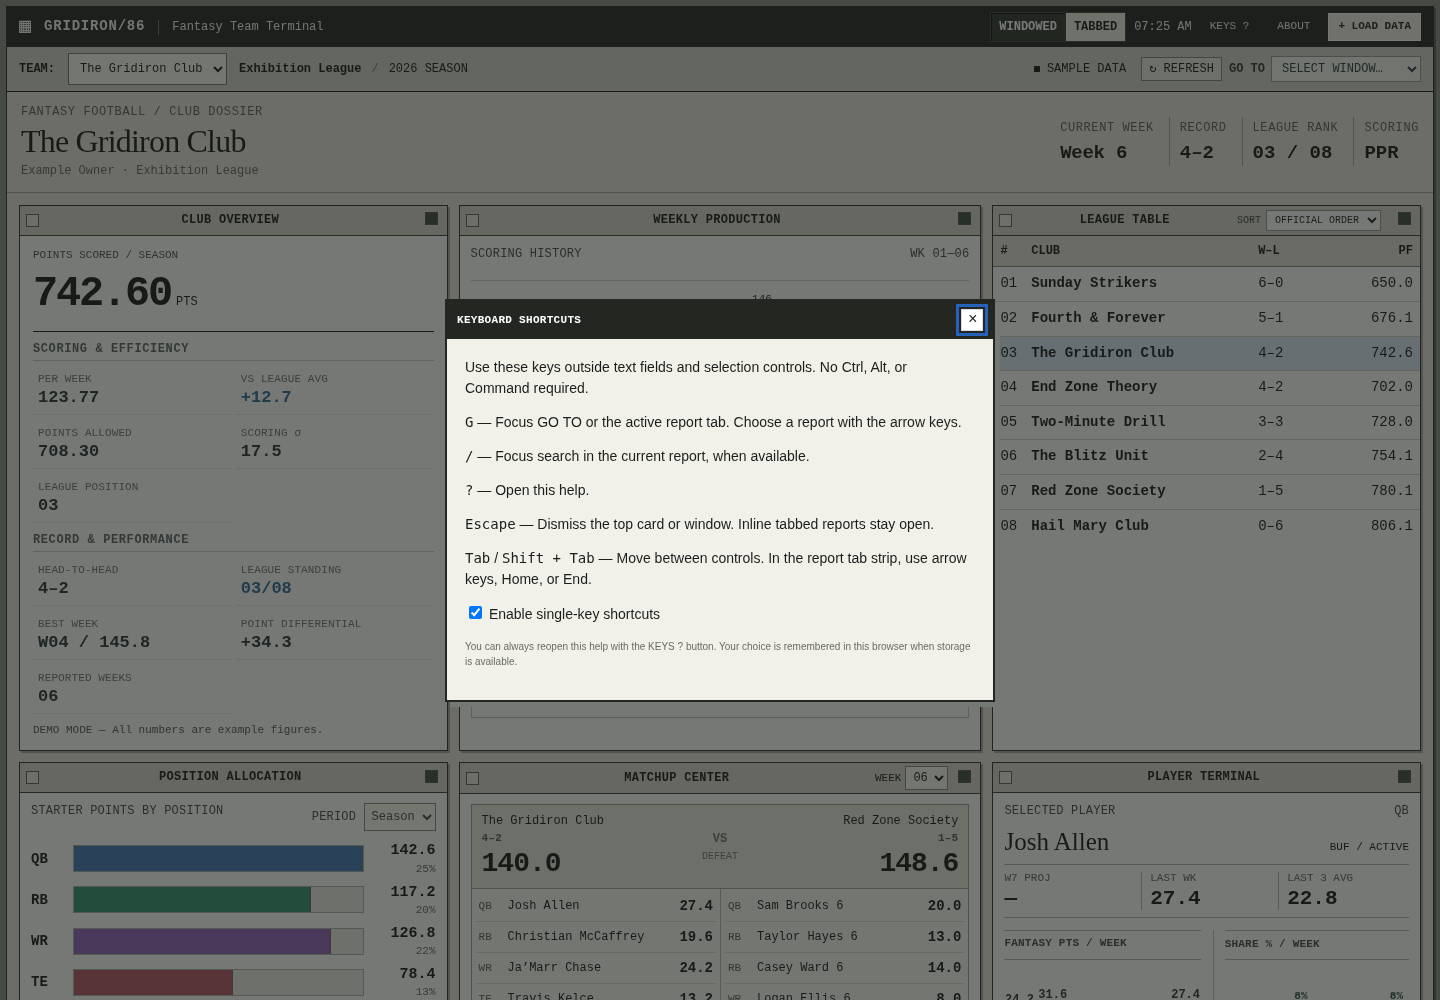
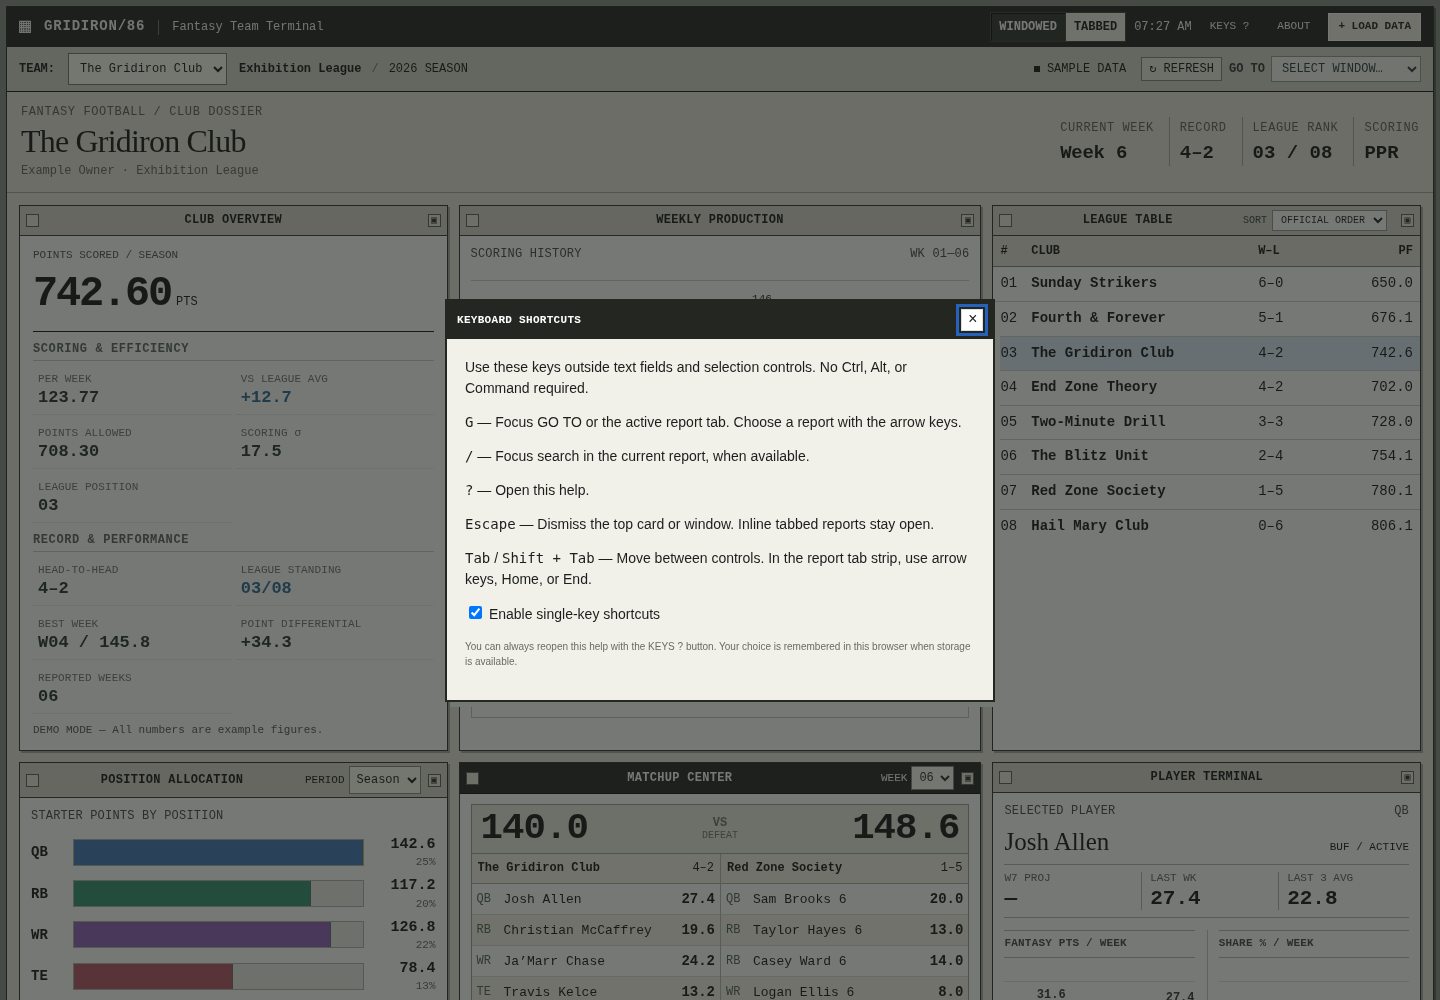
Verify latest-main integration and nested metric Escape ordering

diff --git a/fantasy-hub/docs/keyboard-shortcuts.md b/fantasy-hub/docs/keyboard-shortcuts.md
@@ -134,3 +134,33 @@ Priority backlog requiring owner/environment coordination:
 
 No operations were denied and no outcome is uncertain. The renderer edit is
 pending owner coordination, not a tool/permission rejection.
+
+## Latest-main integration checkpoint
+
+Prepared `codex/keyboard-shortcuts-integration` in a separate worktree on freshly
+fetched main `e8eb5af937c4ab298713f815ee95c18633c86356` (newer than the supplied
+8f6e87c checkpoint). Original branch remains intact at `761e87d`.
+
+The eight original commits were cherry-picked locally. One conflict in index.html
+script includes was resolved by retaining main's v9.12.1 versions and its new
+interactions-before-explorer ordering, then loading shortcuts last. No graph or
+workspace implementation was edited. Mapped integration commits:
+
+| Original | Integration |
+| --- | --- |
+| 0f5c9ad | b332e1c |
+| 51ec1e6 | 9da09b0 |
+| 3c53e74 | 335a6ba |
+| ad16f86 | 97f39f3 |
+| afa820e | be63fc1 |
+| a209ec7 | 1a0566e |
+| b23844c | aaa415e |
+| 761e87d | cc2d8dc |
+
+Latest-main validation: **75/75 Node tests pass** (main added three tests), both
+browser scripts pass with `SHORTCUTS_BASE_URL=http://127.0.0.1:8766`, and syntax/
+whitespace checks pass. The audit additionally verifies nested metric/report
+Escape: first Escape removes only the metric and restores its trigger; second
+Escape closes the native report. Held Escape, help-over-ranking, and modifier/IME
+guards pass with main's updated global listener order. Screenshots here were
+refreshed on the integrated v9.12.1 build. No main checkout, push, merge, or deploy.
